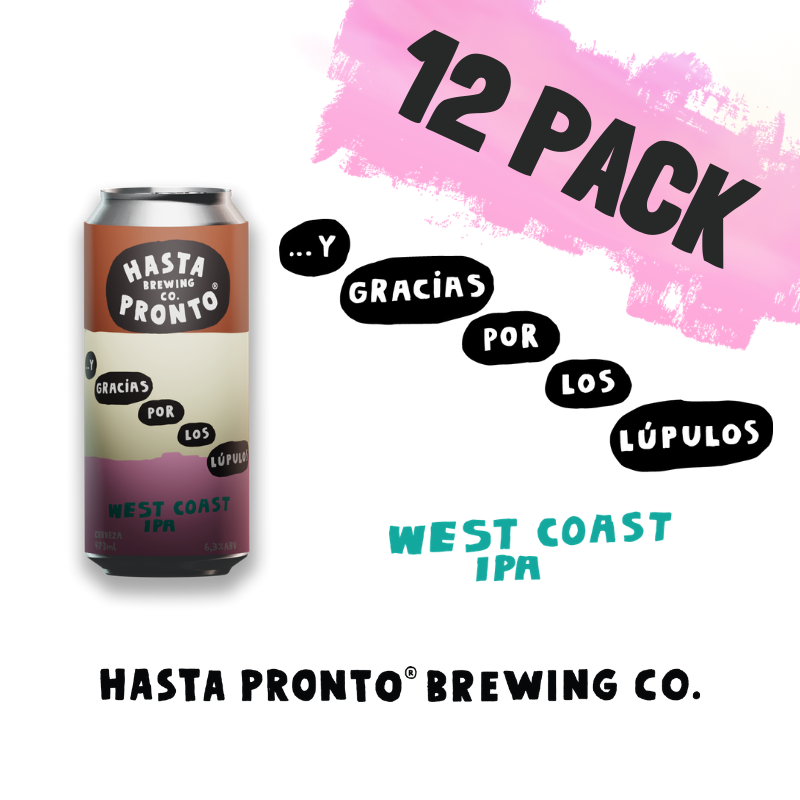
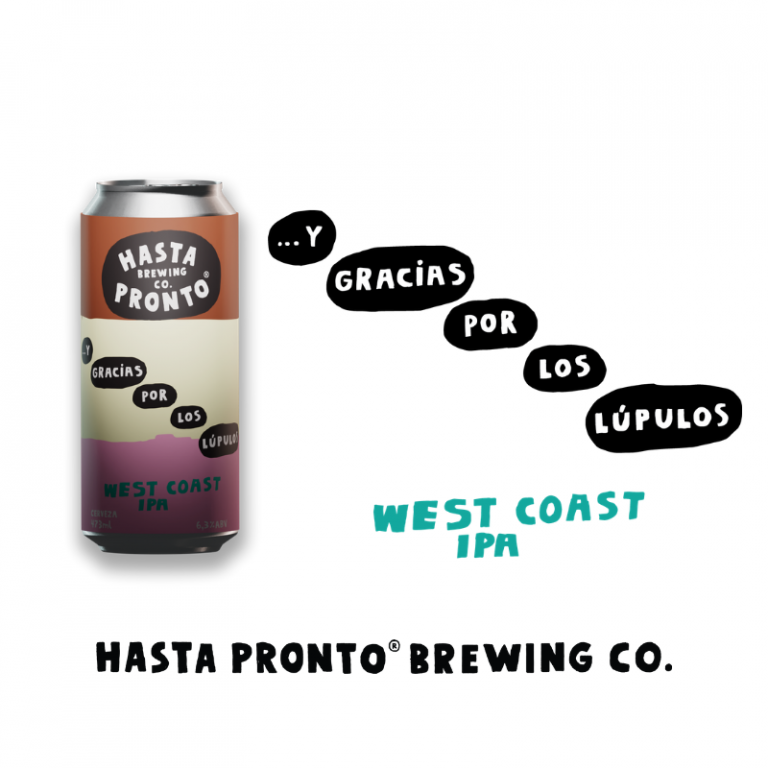
Added more images to assets

Changed region(s): [[0.375, 0.0, 1.0, 0.4375]]

diff --git a/src/components/assets.js b/src/components/assets.js
@@ -1,6 +1,6 @@
 const assets = {
-    'cc0f2086-2dc7-4bec-b35b-9079780d593c': 'https://hastapronto.cl/wp-content/uploads/2018/07/wcipa12-1.png',
-    'b65c4d1a-5d22-4375-bf20-44ba81d0c1d3': 'https://hastapronto.cl/wp-content/uploads/2020/05/6-768x768.png',
+    'cc0f2086-2dc7-4bec-b35b-9079780d593c': 'https://raw.githubusercontent.com/sebapkfd/city-beer-store/main/public/assets/microdosis.png',
+    'b65c4d1a-5d22-4375-bf20-44ba81d0c1d3': 'https://raw.githubusercontent.com/sebapkfd/city-beer-store/main/public/assets/west-coast.png',
     'b69c5b19-0615-4913-ac92-84609d50edd9': 'https://www.tamango.cl/img/uploads/wjnlytubh.jpeg',
     '9a6dc317-69d8-499a-911d-baa92e52ebda': 'https://www.tamango.cl/img/uploads/xz6j7c582.jpeg'
 }
